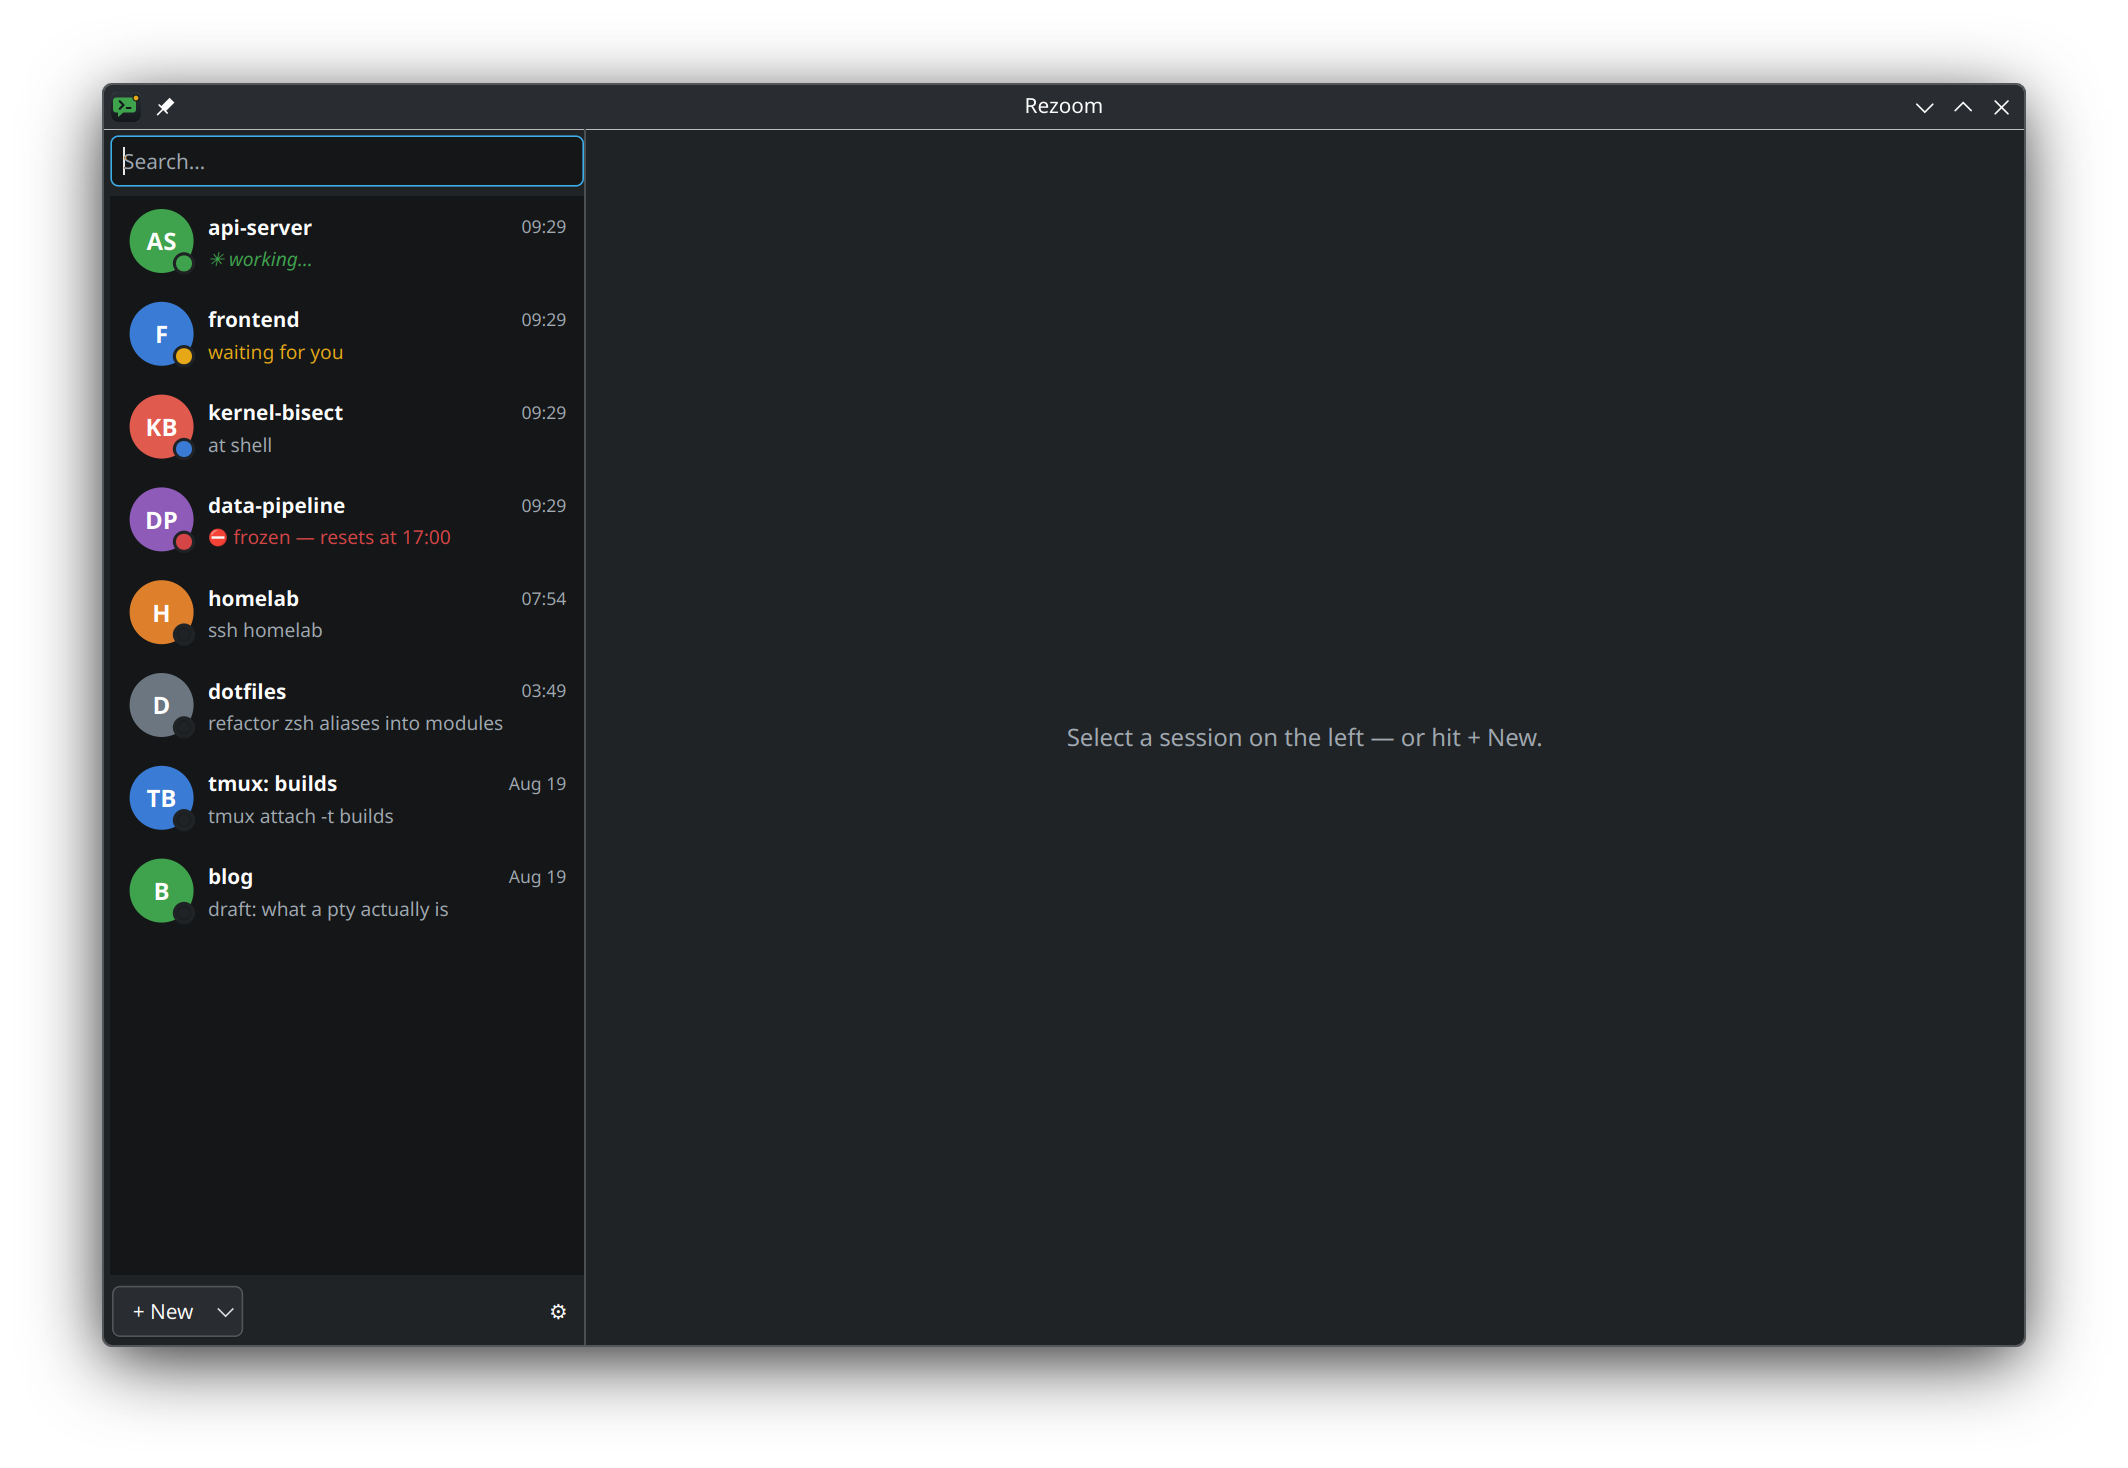
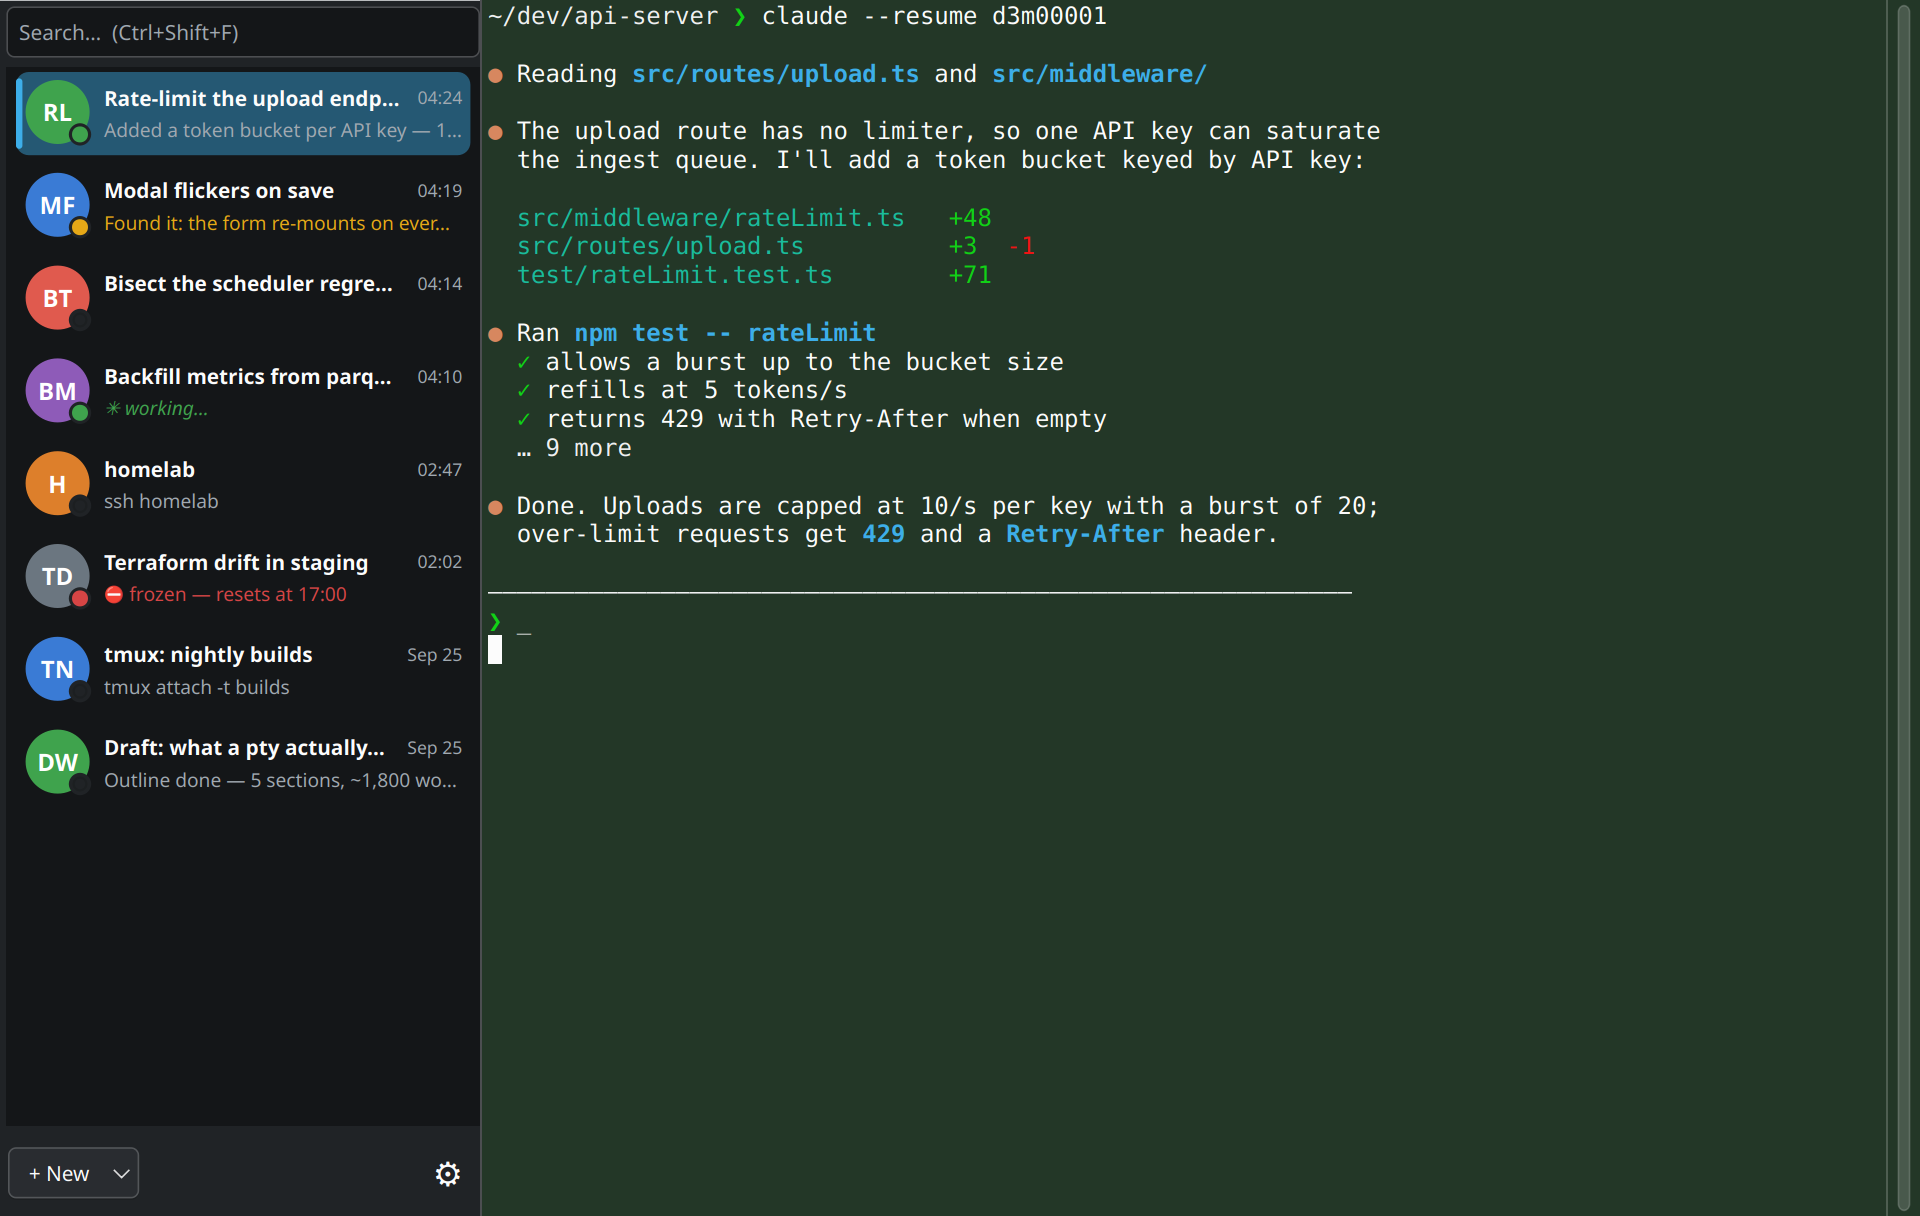
README: 1.1 rewrite — new screenshots, privacy section, macOS notes
Drops the WhatsApp-trademark tagline, documents live titles, beam-in,
restart, freeze-detection install and prune, adds a privacy section
spelling out the only two (opt-in) writes outside Rezoom's own files,
and replaces the v1.0 screenshot with two self-rendered demo-data shots.

Claude-Session: https://claude.ai/code/session_01UQ7uUdDF5XgskSmfLuNtvg

diff --git a/README.md b/README.md
@@ -1,66 +1,66 @@
 # Rezoom
 
-**WhatsApp for your Claude Code sessions and terminals.** Native C++/Qt6, KDE-native
-dark/light theming, embedded Konsole terminals. Every session — claude, shell, ssh,
-tmux — is a chat in the left panel and stays **forever resumable**.
+**One chat list for every Claude Code session on your machine.** Rezoom shows each
+Claude Code, Codex, ssh, tmux or shell session as a chat: what it's doing right now,
+what it last said, and one click to bring it back. Native C++/Qt6, follows your
+KDE light/dark theme, embeds real Konsole terminals.
 
-![Rezoom](docs/screenshot.png)
-
+[![CI](https://github.com/BEX-Robotics/rezoom/actions/workflows/ci.yml/badge.svg)](https://github.com/BEX-Robotics/rezoom/actions/workflows/ci.yml)
 [![Release](https://img.shields.io/github/v/release/BEX-Robotics/rezoom)](https://github.com/BEX-Robotics/rezoom/releases)
 [![License: MIT](https://img.shields.io/badge/License-MIT-green.svg)](LICENSE)
 
+![Rezoom: session list with presence dots on the left, an embedded Claude session on the right](docs/screenshot.png)
+
 ## What it does
 
-- **Live presence** — watches the registry Claude Code itself maintains
-  (`~/.claude/sessions/`): green = working, amber = waiting for you, blue = shell,
-  red = frozen on a usage limit, hollow = resumable. Finished-while-unfocused chats
-  get an unread marker.
-- **Auto-adopt** — every new interactive claude session on the machine becomes a
-  chat by itself; background agent sessions are filtered out.
-- **Auto-resume** — the sessions that were running come back on startup (survives
-  crashes: the running set is persisted continuously, not on quit).
-- **Automatic session tracking** — session ids recorded live (including id changes
-  after `/clear`), plus ssh/tmux commands typed into embedded terminals remembered
-  as "how to get back in".
-- **Resume anything** — dead chats show the exact resumable command behind one
-  button. Command templates are configurable per chat and globally
-  (`~/.config/rezoom/rezoom.conf`).
-- **Adopt everything** — running claudes, any historical transcript, tmux sessions,
-  live ssh clients. External sessions are never touched: raise their window, or
-  **pull them in live** via reptyr (verified, with automatic fallback to lossless
-  kill-and-resume).
-- **Floating groups** — pop chats into floating tab windows (one per screen), pull
-  them back; the whole layout persists across restarts.
-- **Freeze detection** — one click in Settings installs a Notification hook that
-  feeds limit/credit banners into the app; frozen sessions turn red with the
-  reset time.
-- **Consent-first SSH** — ssh chats never connect on their own; the button press is
-  the consent. Optional remote scan finds claude/tmux sessions on hosts you use.
-- **Single instance** — relaunching raises the window; `rezoom --resume <query>`
-  acts on the running instance (KRunner-friendly).
+- **See everything at once.** Rezoom reads the registry Claude Code already writes
+  (`~/.claude/sessions/`). Every session shows a presence dot — green working,
+  amber waiting for you, blue at a shell, red frozen on a usage limit, hollow
+  resumable — its live title, and its latest output while it works. New sessions
+  appear on their own; tool-spawned ones (in `/tmp`, or started by another claude)
+  are left out.
+- **Find the one you mean.** External sessions carry their Konsole window title,
+  and search matches titles, messages and folders.
+- **Never lose a session.** Every chat keeps the exact command that brings it back.
+  Whatever was running comes back when Rezoom starts, even after a crash.
+- **Move sessions without killing them.** A session running in some other Konsole
+  window can be beamed into Rezoom live (reptyr), or you can jump to its window.
+  "Restart to update" is one keystroke per session.
+- **Group across screens.** Float chats into their own tabbed windows and pull them
+  back; the layout survives restarts.
+- **Know when you're blocked.** One click in Settings installs a Claude Code
+  Notification hook; sessions frozen on a usage limit turn red with the reset time.
+- **Keyboard first.** Everything has a `Ctrl+Shift` chord (`Ctrl+Shift+/` lists them),
+  so plain Ctrl keys still reach your shell.
+
+![A session running in another window, with Beam it in and Go to its window](docs/beam-in.png)
+
+## Privacy
+
+Rezoom runs entirely on your machine and never calls an API. It reads Claude's own
+files and writes only its own. The two exceptions are opt-in and say so in Settings:
+the freeze-detection hook (added to `~/.claude/settings.json`, with a backup) and
+skipping Claude's "trust this folder?" prompt for folders you already use (off by
+default). SSH chats never connect until you click.
 
 ## Install
 
-**Debian/Ubuntu** — grab the `.deb` from the
+**Debian/Ubuntu (25.04 or newer, for KF6)** — download the `.deb` from the
 [latest release](https://github.com/BEX-Robotics/rezoom/releases/latest):
 
 ```sh
-sudo apt install ./rezoom_1.0.0_amd64.deb   # pulls Qt6/KF6/konsole-kpart via apt
+sudo apt install ./rezoom_1.1.0_amd64.deb   # pulls Qt6/KF6/konsole-kpart via apt
 ```
 
-**Fedora/openSUSE** — build from the spec: `rpmbuild -ba dist/rezoom.spec`
-(or point Copr/OBS at it).
+**Fedora/openSUSE** — build from the spec: `rpmbuild -ba dist/rezoom.spec`.
 
-**Arch** — `dist/PKGBUILD` is AUR-ready: `makepkg -si` from a directory containing it.
+**Arch** — `dist/PKGBUILD`: `makepkg -si` from a directory containing it.
 
-All packaging depends on distro packages — nothing bundled, nothing statically
-linked. Flatpak/AppImage are deliberately absent: Rezoom leans on the host's
-Konsole/KF6. Without KDE's `konsole-kpart` (e.g. macOS) it builds and runs with
-external terminal windows instead of embedded panes.
+Packages depend on your distro's Qt/KF6; nothing is bundled.
 
-Optional extras (Linux): `reptyr` for live pull-in
-(`sudo setcap cap_sys_ptrace+ep $(which reptyr)` to allow it under Yama),
-`tmux` for persistent plain terminals.
+Optional: `reptyr` for moving live sessions
+(`sudo setcap cap_sys_ptrace+ep $(which reptyr)` to allow it under Yama — Settings
+shows whether it's ready), `tmux`, `jq` for the freeze-detection hook.
 
 ## Build from source
 
@@ -77,37 +77,19 @@ build/rezoom
 macOS:
 
 ```sh
-brew install cmake ninja qt jq
-cmake -B build -G Ninja -DCMAKE_PREFIX_PATH="$(brew --prefix)"
+brew install cmake ninja qt
+cmake -B build -G Ninja -DCMAKE_PREFIX_PATH="$(brew --prefix qt)"
 ninja -C build
 build/rezoom
 ```
 
-### Using it on macOS
+### On macOS
 
-KF6/Konsole is KDE-only, so macOS builds have no embedded terminals: opening a
-chat launches it in a Terminal.app window instead (same for `rezoom-cli
-resume`). Presence tracking, auto-adopt, auto-resume, transcripts, archive,
-templates and the store all work the same — Claude Code maintains the same
-`~/.claude/sessions/` registry on macOS.
-
-Differences to know about:
-
-- **Freeze detection**: put `dist/rezoom-notify-hook.sh` on your `$PATH` as
-  `rezoom-notify-hook` (it needs `jq`), then use Settings → Install.
-- **Live pull-in (reptyr) is Linux-only** — reptyr does not support macOS.
-  External sessions are managed by launch/relaunch instead.
-- **Single instance is inactive** (no session DBus); each `rezoom` launch is
-  its own window. The store stays consistent — it's multi-process safe.
-- "Raise external window" is not wired to Terminal.app yet.
-
-## Keyboard
-
-Everything lives on `Ctrl+Shift` chords so plain Ctrl keys reach the embedded
-shells. `Ctrl+Shift+/` shows the full overlay in-app. Highlights:
-`Ctrl+Shift+Return` resume/beam/connect the selected chat, `Ctrl+PgUp/PgDn`
-walk chats, `Ctrl+Shift+F` search, `Ctrl+Shift+E` archive, `Ctrl+Shift+D`
-float out / pull back, `Ctrl+Shift+N/T/S` new claude/terminal/ssh.
+KF6/Konsole is KDE-only, so chats open in Terminal.app windows instead of embedded
+panes. Presence, titles, search, auto-adopt, auto-resume, restart, archive, templates
+and freeze detection work the same: Claude Code writes the same registry on macOS.
+Beam-in and "Go to its window" need Linux (reptyr, KWin) and don't appear on macOS,
+and single-instance is off there (the session store stays consistent anyway).
 
 ## CLI
 
@@ -116,6 +98,7 @@ rezoom-cli list                  # chats + live presence (TSV)
 rezoom-cli resume <query>        # reopen a chat in a terminal window
 rezoom-cli resume <query> --print
 rezoom-cli adopt-running         # adopt every untracked running claude
+rezoom-cli prune                 # drop dead chats stranded in /tmp
 rezoom --resume <query>          # GUI: select + launch (forwards to a running instance)
 ```
 
@@ -124,13 +107,14 @@ rezoom --resume <query>          # GUI: select + launch (forwards to a running i
 | Path | What |
 |---|---|
 | `~/.local/share/rezoom/sessions.json` | chat records (multi-process safe) |
-| `~/.local/share/rezoom/notifications.jsonl` | Notification-hook capture |
-| `~/.config/rezoom/rezoom.conf` | templates, prefs, UI layout |
+| `~/.local/share/rezoom/notifications.jsonl` | freeze-detection capture |
+| `~/.config/rezoom/rezoom.conf` | templates, preferences, window layout |
 | `~/.claude/sessions/<pid>.json` | live registry (written by claude, read-only) |
 | `~/.claude/projects/*/<uuid>.jsonl` | transcripts (read-only) |
 
-`$REZOOM_DATA_DIR` and `$REZOOM_CLAUDE_DIR` override the store and registry
-locations (tests, demos).
+`$REZOOM_DATA_DIR` and `$REZOOM_CLAUDE_DIR` point the app at other locations, and
+`$REZOOM_SCREENSHOT=<file.png>` renders the window to a PNG and quits — that's how
+the screenshots above were made, from demo data.
 
 ## License
 
